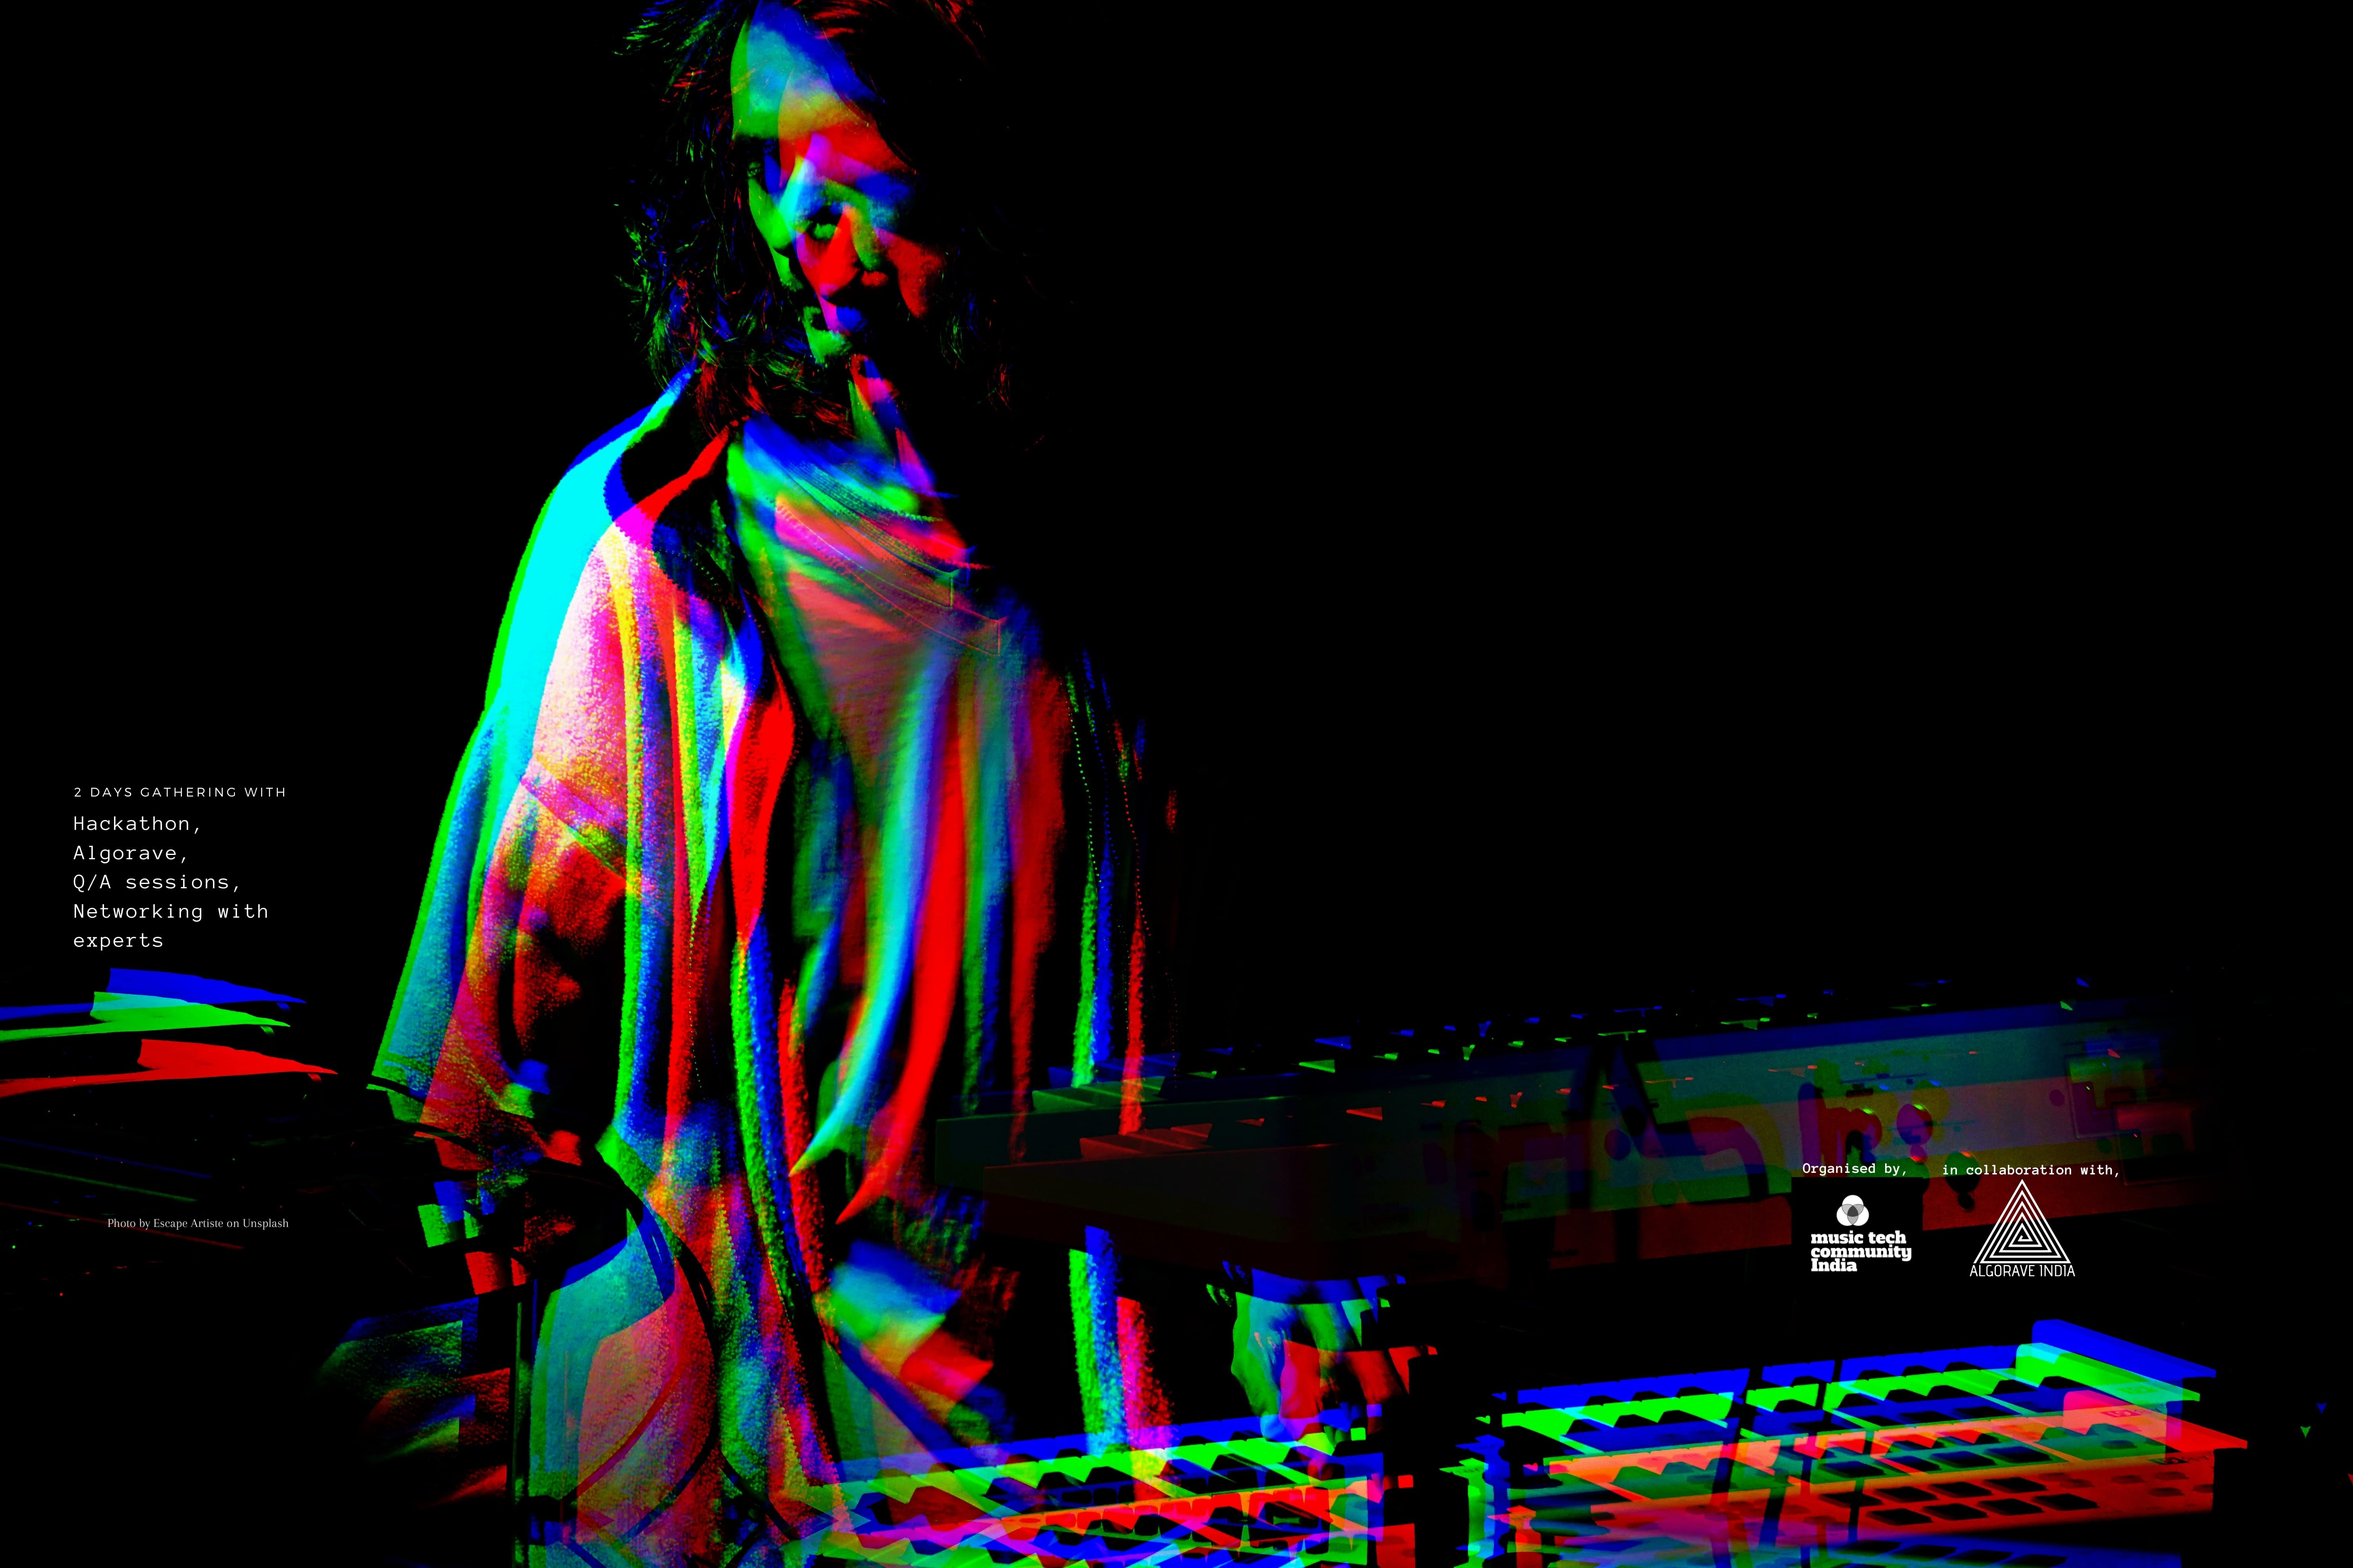
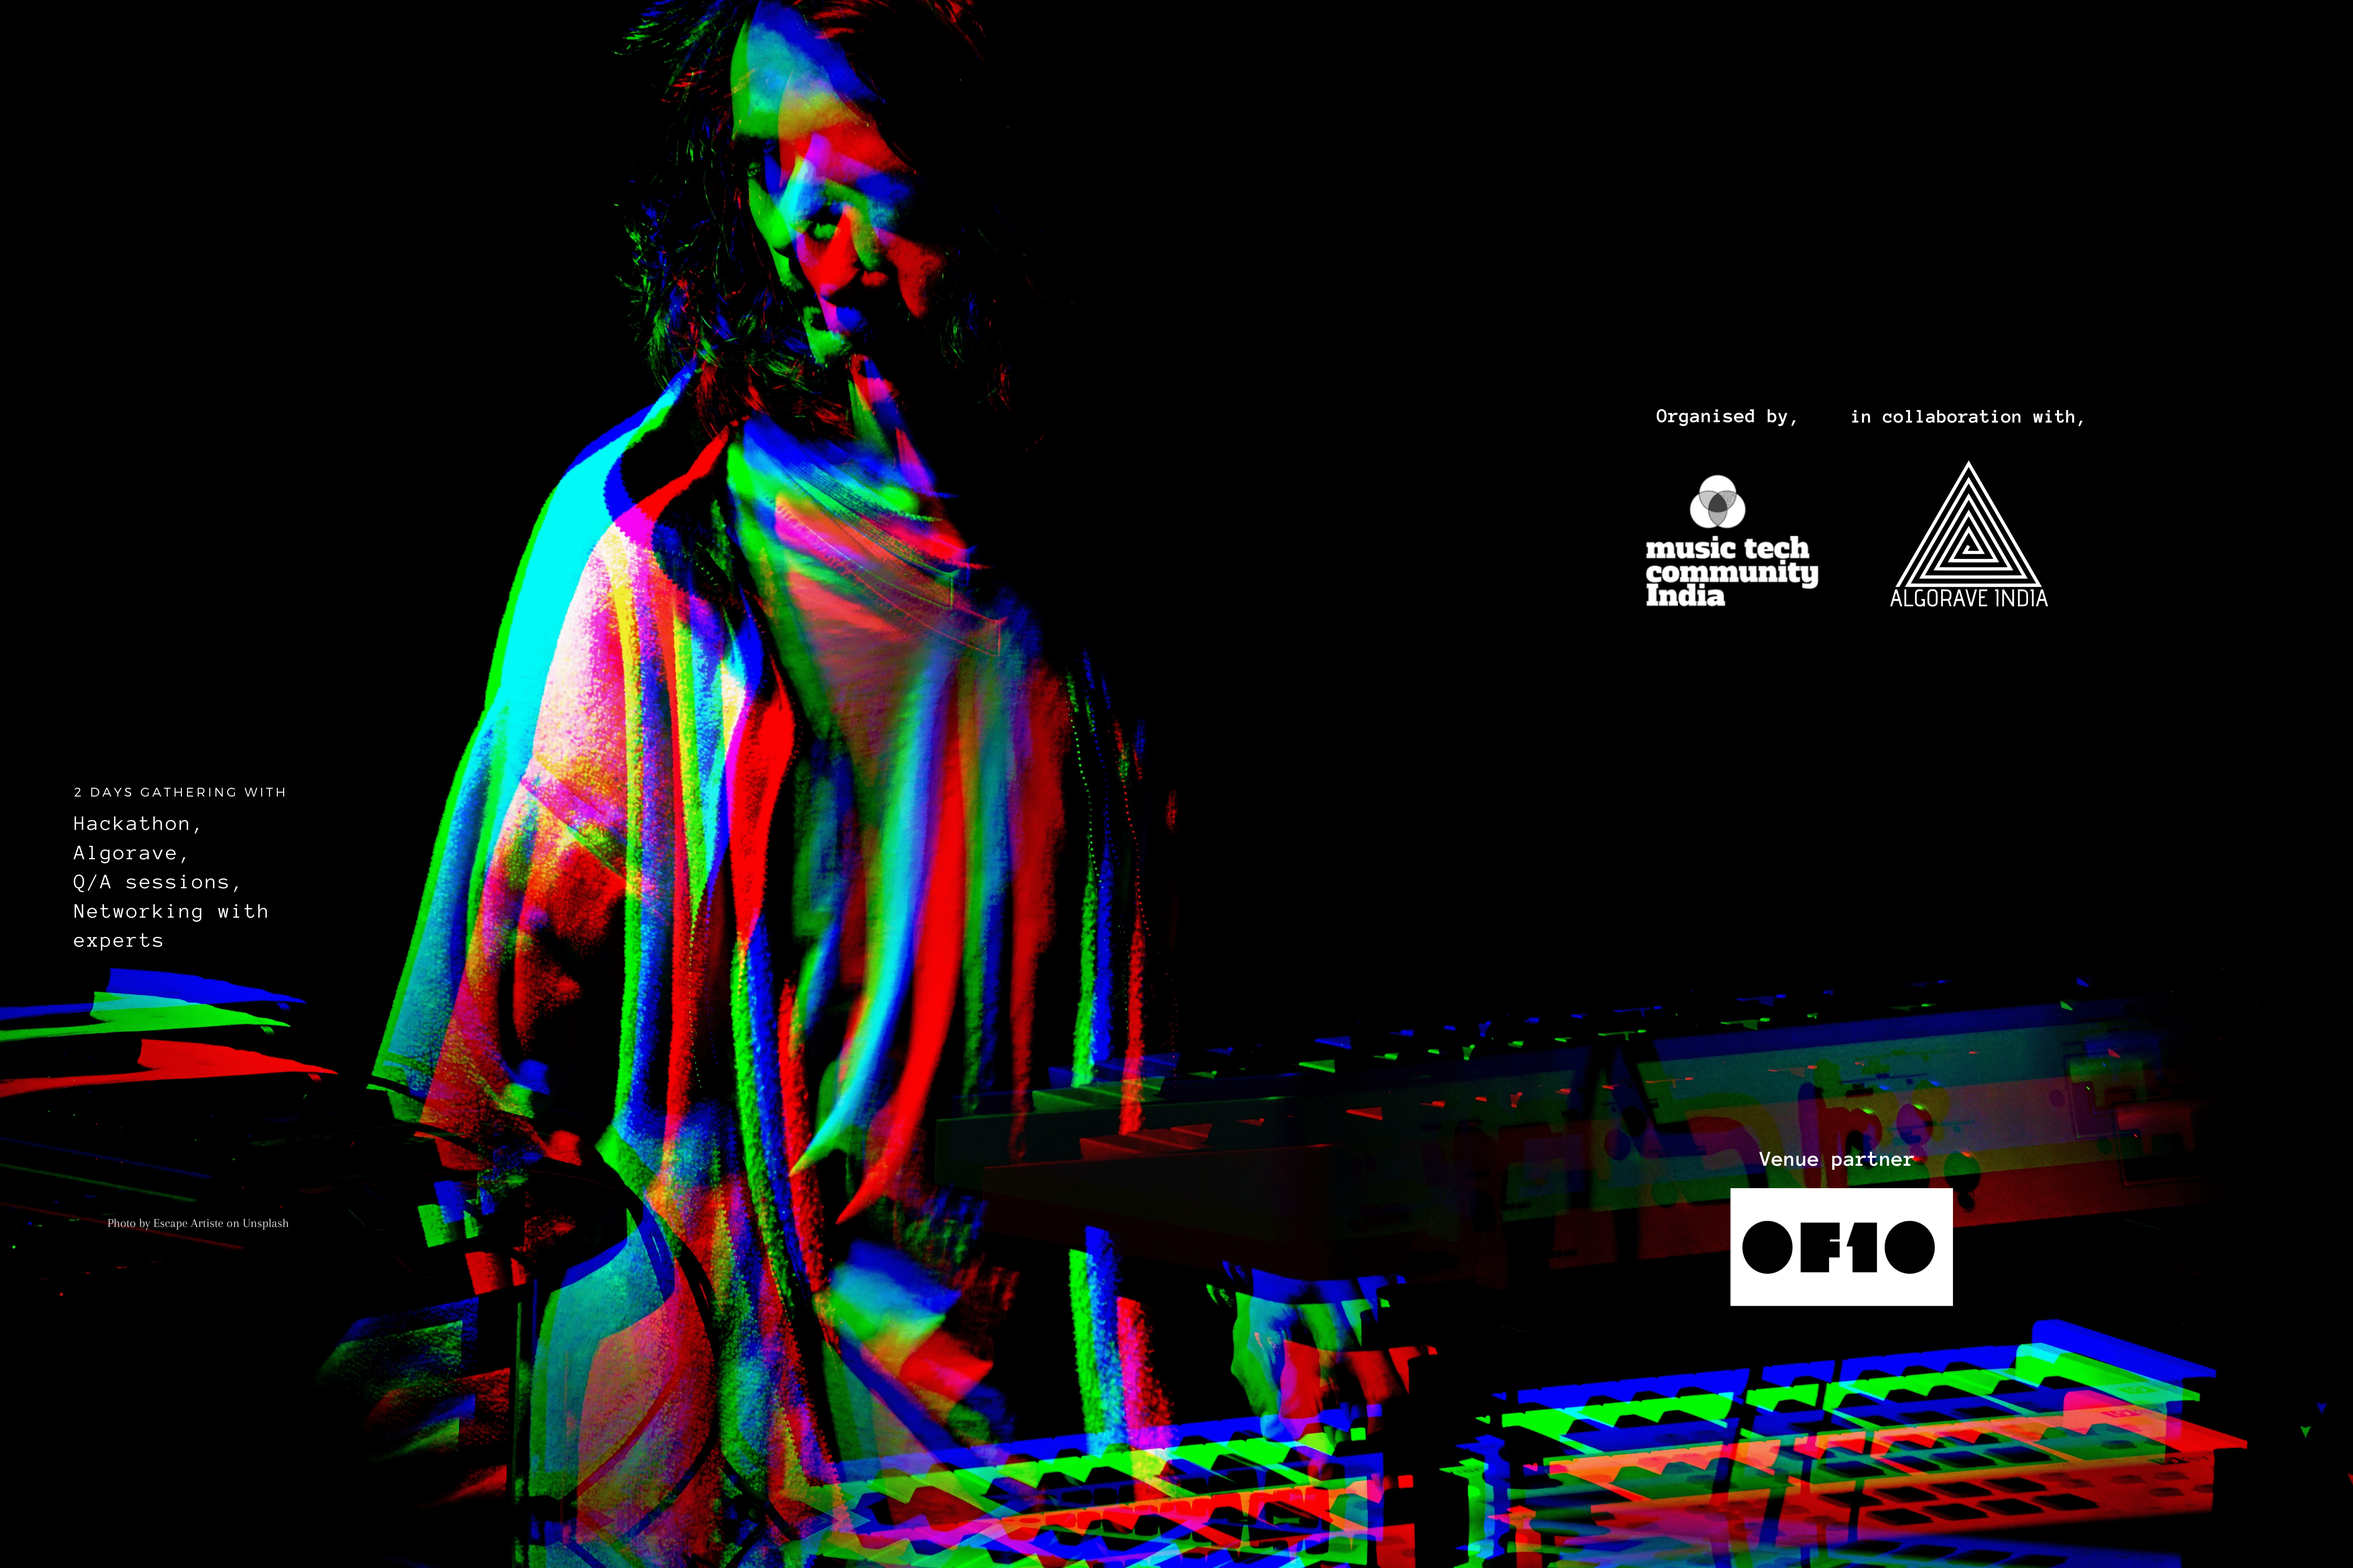
update posters

diff --git a/_includes/2017_data/sponsors.html b/_includes/2017_data/sponsors.html
@@ -20,7 +20,7 @@
             </div>
             <div class="row">
                 <div>
-                    <center><h5>This event is completely organised by community volunteering efforts. Thank you so much to our venue partner of10 and hackathin prize sponsors. Wanna support this open initiative in any ways possible? Please get in touch with us.</h5></center>
+                    <center><h5>This event is completely organised by community volunteering efforts. Thank you so much to our venue partner of10 and hackathon prize sponsors. Wanna support this open initiative in any ways possible? Please get in touch with us.</h5></center>
                 </div>
                 <!-- <div class="col-md-4 col-sm-6">
                     <a href="#" class="portfolio-link" data-toggle="modal">

diff --git a/_2017_pages/venue.html b/_2017_pages/venue.html
@@ -14,11 +14,13 @@ published: true
 
       <h2>Hackathon, Q/A Session and networking</h2>
 
-      <p>14th - 15th December, 2019<br>of10, Mumbai, India</p>
+      <p>Thanks to our venue partner <a href="https://of10.in/" class="portfolio-link" data-toggle="modal" target="_blank">of10</a> for hosting us at their amazing place.</p>
 
       <a href="https://of10.in/" class="portfolio-link" data-toggle="modal" target="_blank">
           <img src="../css/2017_style/img/logos/of10.png" class="img-responsive"  style="height: 100px; width: 280px;" alt="">
       </a>
+
+      <p>14th - 15th December, 2019<br>of10, Mumbai, India</p> 
 
       <p>Address: Ground Floor, Prudential Building, Central Ave, Hiranandani Gardens, Powai, Mumbai, Maharashtra 400076</p>
 

diff --git a/_2017_pages/about.html b/_2017_pages/about.html
@@ -14,7 +14,7 @@ title: About Music Hack Day India
       <!-- <div class="icon-about">
         <img src="../css/2017_style/img/logos/mhd-india-banner.png" alt="icon-about">
       </div> -->
-      <p><img src="../css/2017_style/img/mhd-india-poster.png"></p>
+      <p><img src="../css/2017_style/img/mhd2019-poster.png"></p>
       <p></p>
       <p>Music Hack Day India is a community-driven event where we would like programmers, artists, makers, academics and innovators to come together to ideate, develop and demo their vision of 
         music technology’s future. No restrictions in terms of the medium of the hack - software (mobile, web, desktop), hardware (new instruments, modifications to existing ones). We are open to anything 
